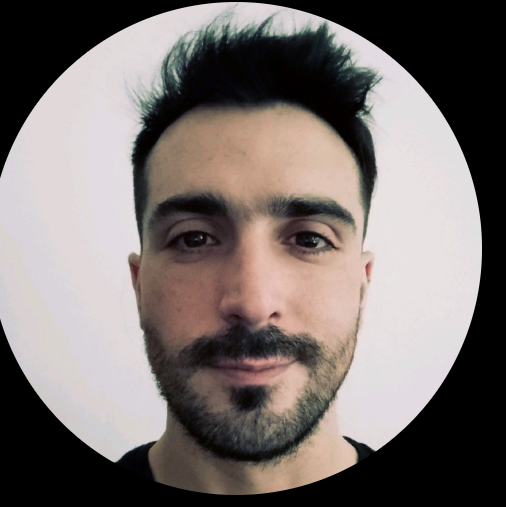
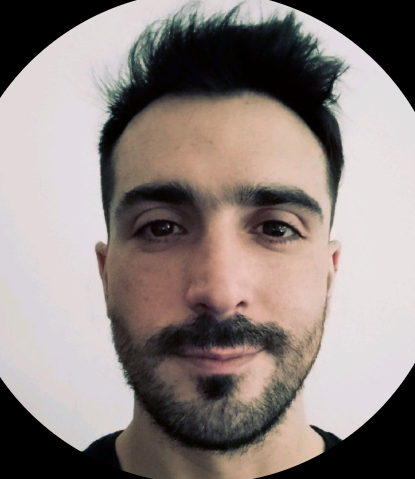
modifico estilos de agradecimientos, acomodo las fotos y hago un dropbox en el NavBar con iconos bonitos

diff --git a/src/app/NavBar.jsx b/src/app/NavBar.jsx
@@ -4,6 +4,8 @@ import MenuList from "./MenuList";
 import Link from "next/link";
 import { useState, useEffect } from "react";
 import { useAuth } from '../context/AuthContext';
+import { FaUser, FaCog, FaSignOutAlt } from 'react-icons/fa';
+import { MdHelp, MdScreenShare, MdFeedback } from 'react-icons/md';
 
 export default function NavBar() {
   const { token, user, setToken, setUser } = useAuth();
@@ -13,6 +15,8 @@ export default function NavBar() {
     { url: "/faq", texto: "FAQ" },
     { url: "/signup", texto: "Registrate" }
   ]);
+  const [dropdownOpen, setDropdownOpen] = useState(false);
+  const [tooltipVisible, setTooltipVisible] = useState(false);
 
   const updateMenuItems = (user) => {
     if (user && user.role) {
@@ -29,7 +33,6 @@ export default function NavBar() {
           { url: "/perfil", texto: "Mi publicacion" },
           { url: "/quienes-somos", texto: "¿Quienes Somos?" },
           { url: "/faq", texto: "FAQ" }
-
         ]);
       }
     }
@@ -45,7 +48,7 @@ export default function NavBar() {
         { url: "/quienes-somos", texto: "¿Quienes Somos?" },
         { url: "/faq", texto: "FAQ" },
         { url: "/signup", texto: "Registrate" },
-        {url: "/agradecimientos", texto: "Agradecimientos"}
+        { url: "/agradecimientos", texto: "Agradecimientos" }
       ]);
     }
   }, [token, user]);
@@ -64,6 +67,13 @@ export default function NavBar() {
     window.location.href = "/login";
   };
 
+  const toggleDropdown = () => {
+    setDropdownOpen(!dropdownOpen);
+  };
+
+  const isProfileDisabled = true; // Aquí puedes establecer la lógica para deshabilitar el perfil
+  const isSettingsDisabled = true; // Aquí puedes establecer la lógica para deshabilitar la configuración
+
   return (
     <header className="bg-white dark:bg-gray-900">
       <div className="mx-auto flex h-16 max-w-screen-xl items-center gap-8 px-4 sm:px-6 lg:px-8">
@@ -71,21 +81,75 @@ export default function NavBar() {
         <div className="flex flex-1 items-center justify-end md:justify-between">
           <MenuList menuItems={itemsNav} />
         </div>
-        <div className="flex items-center gap-4">
+        <div className="flex items-center gap-4 relative">
           {token && user ? (
-            <span className="text-sm font-medium text-gray-700 dark:text-gray-300 mr-4">
-              {JSON.parse(user).username}
-            </span>
+            <div className="relative">
+              <button 
+                onClick={toggleDropdown} 
+                className="flex items-center text-sm font-medium text-gray-700 dark:text-gray-300 mr-4 focus:outline-none"
+              >
+                {JSON.parse(user).username}
+                <svg
+                  className={`ml-2 h-4 w-4 transition-transform ${dropdownOpen ? 'rotate-180' : 'rotate-0'}`}
+                  xmlns="http://www.w3.org/2000/svg"
+                  viewBox="0 0 20 20"
+                  fill="currentColor"
+                >
+                  <path fillRule="evenodd" d="M5.23 7.21a.75.75 0 011.06 0L10 10.586l3.71-3.376a.75.75 0 111.08 1.04l-4 4.5a.75.75 0 01-1.08 0l-4-4.5a.75.75 0 010-1.04z" clipRule="evenodd" />
+                </svg>
+              </button>
+              {dropdownOpen && (
+                <div className="absolute right-0 mt-2 w-48 bg-white dark:bg-gray-800 border border-gray-200 dark:border-gray-700 rounded-lg shadow-lg z-50">
+                  {isProfileDisabled ? (
+                    <div
+                      className="relative flex items-center px-4 py-2 text-sm text-gray-400 cursor-not-allowed"
+                      onMouseEnter={() => setTooltipVisible(true)}
+                      onMouseLeave={() => setTooltipVisible(false)}
+                    >
+                      <FaUser className="mr-2" />
+                      Perfil
+                      {tooltipVisible && (
+                        <div className="absolute left-full ml-2 w-48 bg-gray-700 text-white text-xs rounded py-1 px-2 shadow-lg">
+                          Funcionalidad en desarrollo
+                        </div>
+                      )}
+                    </div>
+                  ) : (
+                    <Link href="/profile" className="flex items-center px-4 py-2 text-sm text-gray-700 dark:text-gray-300 hover:bg-gray-100 dark:hover:bg-gray-700">
+                      <FaUser className="mr-2" />
+                      Perfil
+                    </Link>
+                  )}
+                  {isSettingsDisabled ? (
+                    <div
+                      className="relative flex items-center px-4 py-2 text-sm text-gray-400 cursor-not-allowed"
+                      onMouseEnter={() => setTooltipVisible(true)}
+                      onMouseLeave={() => setTooltipVisible(false)}
+                    >
+                      <FaCog className="mr-2" />
+                      Configuración
+                      {tooltipVisible && (
+                        <div className="absolute left-full ml-2 w-48 bg-gray-700 text-white text-xs rounded py-1 px-2 shadow-lg">
+                          Funcionalidad en desarrollo
+                        </div>
+                      )}
+                    </div>
+                  ) : (
+                    <Link href="/settings" className="flex items-center px-4 py-2 text-sm text-gray-700 dark:text-gray-300 hover:bg-gray-100 dark:hover:bg-gray-700">
+                      <FaCog className="mr-2" />
+                      Configuración
+                    </Link>
+                  )}
+                  <div className="flex items-center px-4 py-2 text-sm text-gray-700 dark:text-gray-300 hover:bg-gray-100 dark:hover:bg-gray-700 cursor-pointer" onClick={handleLogout}>
+                    <FaSignOutAlt className="mr-2" />
+                    Logout
+                  </div>
+                </div>
+              )}
+            </div>
           ) : null}
           <div className="sm:flex sm:gap-4">
-            {token ? (
-              <button 
-                onClick={handleLogout} 
-                className="block rounded-md bg-red-600 px-5 py-2.5 text-sm font-medium text-white transition hover:bg-red-700 dark:hover:bg-red-500"
-              >
-                Logout
-              </button>
-            ) : (
+            {token ? null : (
               <Link href="/login" className="block rounded-md bg-teal-600 px-5 py-2.5 text-sm font-medium text-white transition hover:bg-teal-700 dark:hover:bg-teal-500">
                 Login
               </Link>

diff --git a/src/app/agradecimientos/page.js b/src/app/agradecimientos/page.js
@@ -42,8 +42,14 @@ const developers = [
 
 export default function Agradecimientos() {
   return (
-    <div className="min-h-screen bg-gradient-to-r from-blue-500 to-purple-500 py-8 px-4 sm:px-6 lg:px-8">
-      <div className="max-w-4xl mx-auto text-center text-white">
+    <div
+      className="min-h-screen flex flex-col justify-between mx-auto max-w-screen-xl bg-center bg-no-repeat overflow-hidden relative"
+      style={{
+        backgroundImage: `url('/img/eduwave_login.jpg')`,
+        backgroundSize: "cover",
+      }}
+    >
+      <div className="max-w-4xl mx-auto text-center text-white bg-black bg-opacity-70 p-8 rounded-lg">
         <h1 className="text-4xl font-bold mb-8">Agradecimientos</h1>
         <p className="text-lg mb-8">
           Este proyecto no habría sido posible sin el esfuerzo y la dedicación
@@ -54,10 +60,11 @@ export default function Agradecimientos() {
           {developers.map((dev, index) => (
             <Link
               href={dev.linkedin}
-              className="bg-white rounded-lg shadow-lg p-6 transform hover:scale-105 transition-transform"
+              className="bg-blue-800 text-white rounded-lg shadow-lg p-6 transform hover:scale-105 transition-transform"
               target="_blank"
+              key={index}
             >
-              <div key={index}>
+              <div>
                 <Image
                   src={dev.image}
                   alt={dev.name}
@@ -65,10 +72,10 @@ export default function Agradecimientos() {
                   height={100}
                   className="w-32 h-32 mx-auto rounded-full mb-4 border-4 border-purple-600"
                 />
-                <h2 className="text-xl font-semibold mb-2 text-purple-600">
+                <h2 className="text-xl font-semibold mb-2 text-white">
                   {dev.name}
                 </h2>
-                <p className="text-gray-700">{dev.description}</p>
+                <p className="text-gray-300">{dev.description}</p>
               </div>
             </Link>
           ))}
